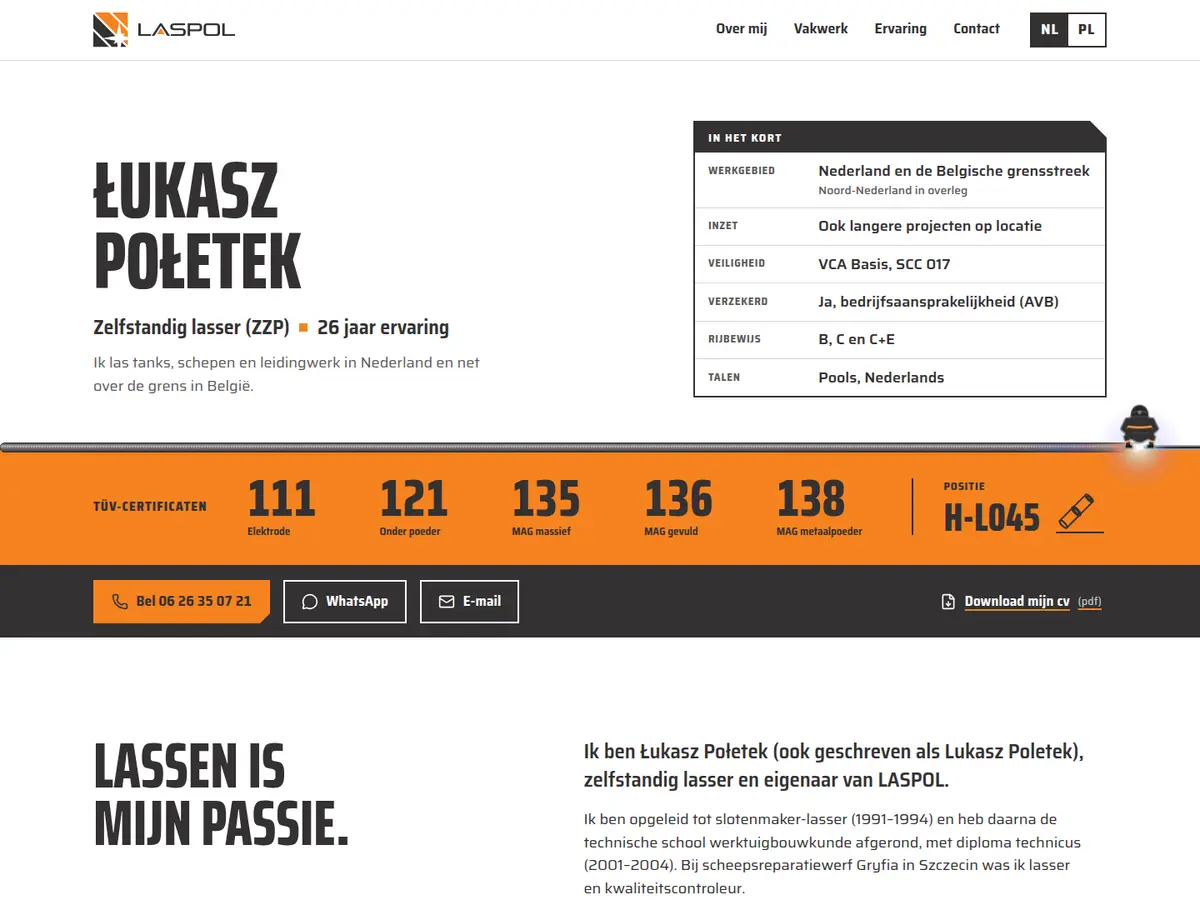
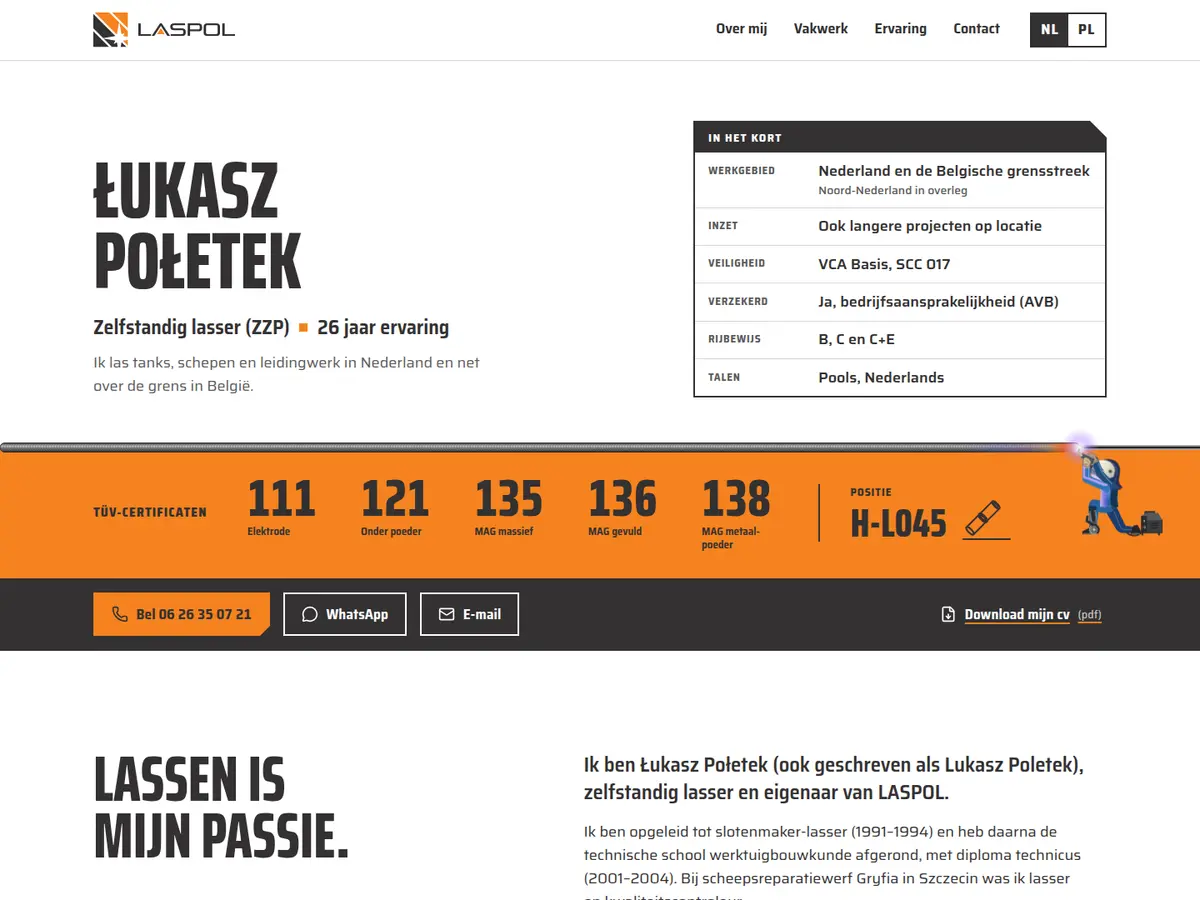
Refresh Laspol screenshots

diff --git a/index.html b/index.html
@@ -25,9 +25,9 @@
     <!-- Portfolio: copy this <article> for each new project. Put images in /images and swap the thumb div for an <img>. -->
     <article class="project">
       <div class="shots">
-        <a class="thumb" href="https://www.lukaszpoletek.com" target="_blank" rel="noopener"><img src="images/lukasz-home.webp" width="1200" height="900" alt="Homepage of lukaszpoletek.com"></a>
-        <img src="images/lukasz-work.webp" width="800" height="600" alt="Work section with welding processes and certificates" loading="lazy">
-        <img src="images/lukasz-mobile.webp" width="450" height="600" alt="The site on a phone" loading="lazy">
+        <a class="thumb" href="https://www.lukaszpoletek.com" target="_blank" rel="noopener"><img src="images/lukasz-home.webp?v=2" width="1200" height="900" alt="Homepage of lukaszpoletek.com"></a>
+        <img src="images/lukasz-work.webp?v=2" width="800" height="600" alt="Work section with welding processes and certificates" loading="lazy">
+        <img src="images/lukasz-mobile.webp?v=2" width="450" height="600" alt="The site on a phone" loading="lazy">
       </div>
       <div class="project-info">
         <span class="tag">Website</span>
